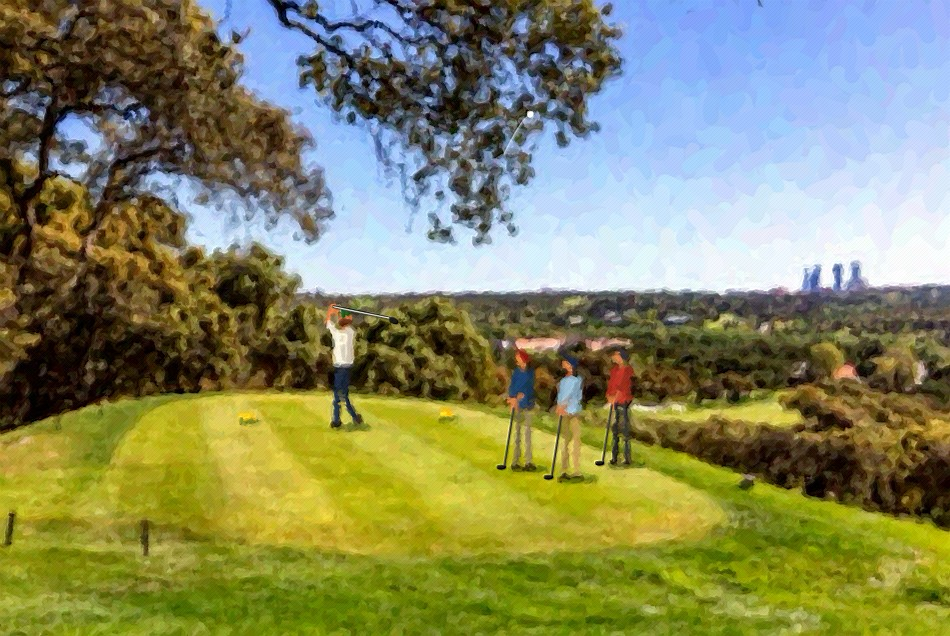
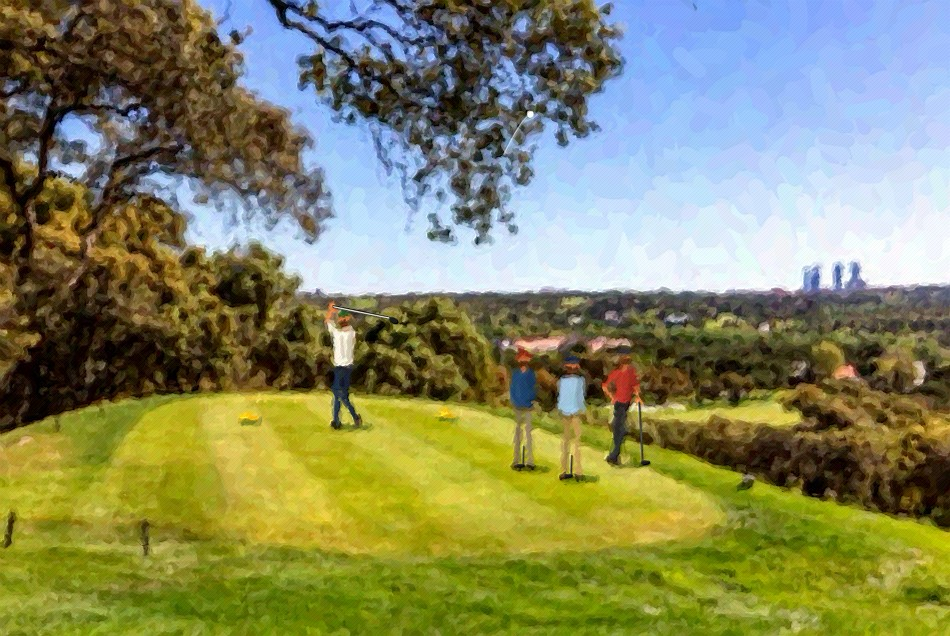
Tarjeta: watchers seen from behind following the ball, one leaning on his driver

diff --git a/golf/tarjeta/img/paint.js b/golf/tarjeta/img/paint.js
@@ -7,7 +7,7 @@
 // strokes, coarse to fine, each laid along the direction of the shapes underneath, with a little
 // relief so the paint catches the light. The result is kept on this phone so it is only painted once.
 let sketchURL = null, sketching = false;
-const PAINT_VERSION = 'paint-v8';
+const PAINT_VERSION = 'paint-v9';
 function paintGolfers(x, S) {
   clubs = [];
   // photo pixels (475 x 318) to canvas pixels
@@ -18,29 +18,41 @@ function paintGolfers(x, S) {
   const disc = (a, b, r, col) => { x.fillStyle = col; x.beginPath(); x.arc(a, b, r, 0, 7); x.fill(); };
   const skin = '#c98f6b', hair = '#4a3426';
   const shadow = (fx, fy, w) => { x.fillStyle = 'rgba(25,45,20,.45)'; x.beginPath(); x.ellipse(fx + w * .25, fy + w * .06, w, w * .2, 0, 0, 7); x.fill(); };
-  // a man about to watch the drive: standing, turned towards the left, both hands on his driver, head resting on the grass
-  const watcher = (fx, fy, h, shirt, pants, cap) => {
-    const u = h / 64, X = v => fx + v * u, Y = v => fy - v * u;
-    shadow(fx, fy, 11 * u);
-    poly([[X(-3.5), Y(33)], [X(-1), Y(33)], [X(-2), Y(1)], [X(-5.5), Y(1)]], sh(pants, .8));       // far leg
-    poly([[X(0), Y(33)], [X(4), Y(33)], [X(4.6), Y(1)], [X(1.2), Y(1)]], pants);                  // near leg
-    poly([[X(-6.5), Y(1.5)], [X(-1.5), Y(1.5)], [X(-1.5), Y(-.5)], [X(-7), Y(-.5)]], '#2a241f');
-    poly([[X(0.5), Y(1.5)], [X(5.5), Y(1.5)], [X(5.5), Y(-.5)], [X(0), Y(-.5)]], '#2a241f');
-    poly([[X(-5.5), Y(54)], [X(5.5), Y(54.5)], [X(5), Y(32)], [X(-4.5), Y(32)]], shirt);           // torso
-    poly([[X(1.5), Y(54.3)], [X(5.5), Y(54.5)], [X(5), Y(32)], [X(2), Y(32)]], sh(shirt, .78));    // shaded side
-    poly([[X(-4.5), Y(34)], [X(5), Y(34)], [X(5), Y(32)], [X(-4.5), Y(32)]], sh(pants, .65));      // belt
-    line(X(-4.5), Y(52), X(-7), Y(38), 3.2 * u, sh(shirt, .9)); line(X(-7), Y(38), X(-6), Y(33), 2.6 * u, skin);  // arms to the grip
-    line(X(4.5), Y(52), X(-2), Y(40), 3.2 * u, sh(shirt, .8)); line(X(-2), Y(40), X(-5.5), Y(33.5), 2.6 * u, sh(skin, .9));
-    disc(X(-5.8), Y(33), 1.9 * u, sh(skin, .95));
-    line(X(-1), Y(55), X(-.5), Y(57.5), 2.4 * u, sh(skin, .85));                                    // neck
-    disc(X(-.6), Y(61), 3.9 * u, skin); disc(X(1.2), Y(61), 2.6 * u, sh(skin, .82));                // head, lit from the left
-    poly([[X(0.5), Y(62.8)], [X(3.6), Y(62.8)], [X(3.4), Y(58.2)], [X(1.8), Y(57.6)]], hair);                 // dark hair at the back
-    // cap, head tipped back to follow the ball: crown towards the upper right, peak towards the upper left
-    { const hx = X(-.6), hy = Y(61), a = -2.25, c = a + Math.PI / 2;
-      x.fillStyle = cap; x.beginPath(); x.arc(hx, hy, 4.1 * u, c - Math.PI / 2 - .25, c + Math.PI / 2 + .25); x.fill();
-      x.save(); x.translate(hx + Math.cos(a) * 3.2 * u, hy + Math.sin(a) * 3.2 * u); x.rotate(a);
-      x.fillStyle = sh(cap, .85); x.fillRect(0, -.7 * u, 4.2 * u, 1.4 * u); x.restore(); }
-    clubs.push([X(-5.8), Y(33), X(-11), Y(0.5), 1.1 * u, '#4b4943', [-1.6 * u, 0, 2.6 * u, 1.3 * u, 0]]);
+  // a man watching the drive, seen from behind as he looks up after the ball. pose 'hold': both hands on
+  // his driver in front of him, only its head showing between his feet; pose 'lean': leaning on the
+  // driver planted at his right side, left hand on his hip, legs crossed at the ankles
+  const watcher = (fx, fy, h, shirt, pants, cap, pose = 'hold') => {
+    const u = h / 64, X = v => fx + v * u, Y = v => fy - v * u, lean = pose === 'lean' ? 1.6 : 0;
+    shadow(fx + 2 * u, fy, 10 * u);
+    if (pose === 'lean') {
+      poly([[X(-4.5), Y(33)], [X(0), Y(33)], [X(-1.5), Y(1)], [X(-5), Y(1)]], sh(pants, .82));                  // left leg, standing
+      poly([[X(-.5), Y(33)], [X(4), Y(33)], [X(1.5), Y(12)], [X(-5.5), Y(2.5)], [X(-7.5), Y(4)], [X(-1.5), Y(13)]], pants); // right leg crossed over
+      poly([[X(-6), Y(1.5)], [X(-.5), Y(1.5)], [X(-.5), Y(-.5)], [X(-6.5), Y(-.5)]], '#2a241f');
+      x.save(); x.translate(X(-6.8), Y(2.6)); x.rotate(-.5); x.fillStyle = '#2a241f'; x.beginPath(); x.ellipse(0, 0, 2.8 * u, 1.3 * u, 0, 0, 7); x.fill(); x.restore(); // right foot on its toe
+    } else {
+      poly([[X(-4.5), Y(33)], [X(-.5), Y(33)], [X(-2), Y(1)], [X(-5.5), Y(1)]], sh(pants, .85));
+      poly([[X(.5), Y(33)], [X(4.5), Y(33)], [X(5), Y(1)], [X(1.5), Y(1)]], pants);
+      poly([[X(-6.5), Y(1.5)], [X(-1.5), Y(1.5)], [X(-1.5), Y(-.5)], [X(-7), Y(-.5)]], '#2a241f');
+      poly([[X(1), Y(1.5)], [X(6), Y(1.5)], [X(6), Y(-.5)], [X(.5), Y(-.5)]], '#2a241f');
+      clubs.push([X(-.2), Y(12), X(-.6), Y(1.2), .9 * u, '#4b4943', [-1.2 * u, 0, 2.2 * u, 1.1 * u, 0]]);   // driver between his feet
+    }
+    const T = v => X(v + lean);                                                                                  // upper body leans towards the club
+    poly([[T(-5.5), Y(54)], [T(5.5), Y(54.3)], [X(5), Y(32)], [X(-4.8), Y(32)]], shirt);                         // back
+    poly([[T(1.8), Y(54.2)], [T(5.5), Y(54.3)], [X(5), Y(32)], [X(2), Y(32)]], sh(shirt, .8));
+    poly([[X(-4.8), Y(34)], [X(5), Y(34)], [X(5), Y(32)], [X(-4.8), Y(32)]], sh(pants, .6));                    // belt
+    if (pose === 'lean') {
+      line(T(-5), Y(52), X(-10), Y(43), 3.2 * u, shirt); line(X(-10), Y(43), X(-5), Y(35.5), 2.6 * u, skin);     // hand on the hip
+      line(T(5), Y(52), X(8.5), Y(42), 3.2 * u, sh(shirt, .85)); line(X(8.5), Y(42), X(9.5), Y(35), 2.6 * u, skin); // arm down to the grip
+      disc(X(9.6), Y(34.5), 1.9 * u, skin);
+      clubs.push([X(9.6), Y(34.5), X(11.5), Y(.8), 1.1 * u, '#4b4943', [1.6 * u, 0, 2.6 * u, 1.3 * u, 0]]);    // driver planted at his side
+    } else {
+      line(T(-5), Y(52), X(-6), Y(38), 3.2 * u, shirt); line(T(5), Y(52), X(5.5), Y(38), 3.2 * u, sh(shirt, .85));  // arms forward to the grip
+    }
+    line(T(0), Y(54.5), T(.2), Y(57), 2.6 * u, sh(skin, .85));                                                     // neck
+    disc(T(.2), Y(60), 3.8 * u, sh(skin, .9));
+    x.fillStyle = hair; x.beginPath(); x.arc(T(.2), Y(60), 3.8 * u, .15, Math.PI - .15); x.fill();               // back of the head
+    x.fillStyle = cap; x.beginPath(); x.arc(T(.2), Y(60.8), 4 * u, Math.PI + .1, -.1); x.fill();                 // cap from behind
+    x.save(); x.translate(T(-1.2), Y(64.2)); x.rotate(-2.1); x.fillStyle = sh(cap, .85); x.fillRect(0, -.7 * u, 3.2 * u, 1.4 * u); x.restore(); // peak tipped up after the ball
   };
   // the golfer holding his finish, seen from behind: weight on the left foot, right foot up on its toe
   // with the sole showing, hands high over the left shoulder, club across behind his head, head turned
@@ -82,10 +94,10 @@ function paintGolfers(x, S) {
   const g = P(172, 213);
   golfer(g[0], g[1], 57 * S, '#f1eee6', '#2e3a52', '#2f5a3a');
   ballInAir = P(265, 57);
-  // the other three to his right and a little behind him, facing him
+  // the other three to his right and a little behind him, backs to us, watching the ball
   watcher(...P(262, 234), 58 * S, '#2f4a6e', '#8c8474', '#6b2e2b');
   watcher(...P(286, 239), 60 * S, '#a7c1d9', '#b19c73', '#27344f');
-  watcher(...P(311, 232), 57 * S, '#9a4a45', '#3a3d45', '#3a3d45');
+  watcher(...P(311, 232), 57 * S, '#9a4a45', '#3a3d45', '#3a3d45', 'lean');
 }
 let clubs = [];
 function paintClubs(x) {

diff --git a/golf/tarjeta/index.html b/golf/tarjeta/index.html
@@ -711,7 +711,7 @@ function vHome() {
   app.innerHTML = `
     <section class="agh">
       <div class="agh-scene" aria-hidden="true">
-        <img class="agh-sketch" src="img/tee-painting.jpg?v=8" alt="Óleo del tee del Club de Campo con cuatro jugadores">
+        <img class="agh-sketch" src="img/tee-painting.jpg?v=9" alt="Óleo del tee del Club de Campo con cuatro jugadores">
       </div>
       <div class="agh-board">
         <div class="agh-arch">TARJETA</div>
